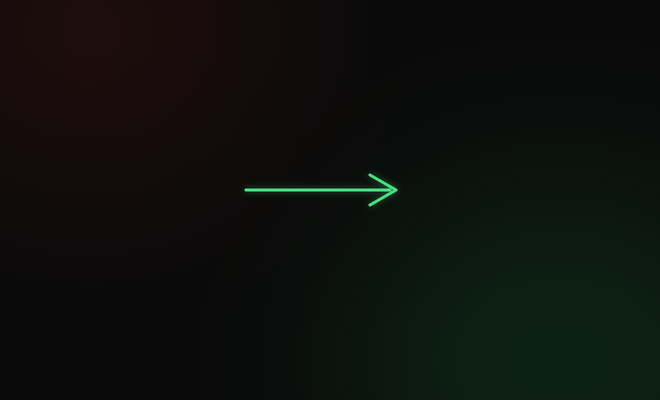
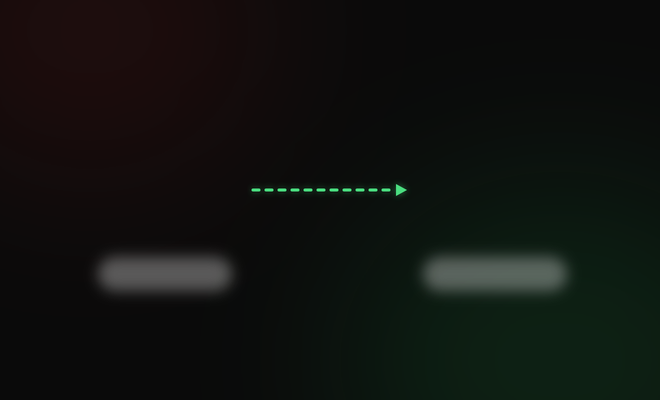
feat(dmg): headless installer styling with dmgbuild
Tauri styles its DMG by scripting Finder over AppleScript, which the headless CI runner skips, so the published installer opened unstyled. dmgbuild writes the .DS_Store itself (background, icon positions, hidden helper files), so the styling applies without Finder.

Adds tauri/dmg/dmgbuild-settings.py and refines the background: the aurora theme, a dashed connector arrow in the graph's dependency green with a small filled triangle head, and soft pads under the icon labels (macOS forces black label text over a custom DMG background). Wiring this into the release workflow is a follow-up.

Changed region(s): [[0.6364, 0.63, 0.8788, 0.75], [0.1212, 0.63, 0.3636, 0.75], [0.3636, 0.42, 0.6364, 0.51]]

diff --git a/tauri/dmg/background.html b/tauri/dmg/background.html
@@ -50,37 +50,53 @@
         bottom: -140px;
         background: rgba(34, 197, 94, 0.12);
       }
+      /* macOS forces the icon-label text to black over a custom DMG background,
+         so a soft light pad sits under each label (centred on the icons at x:165
+         and x:495, just below them) to keep the black text legible. */
+      .labelpad {
+        position: absolute;
+        top: 257px;
+        height: 34px;
+        border-radius: 17px;
+        background: rgba(255, 255, 255, 0.32);
+        filter: blur(7px);
+      }
+      .labelpad.app {
+        left: 98px;
+        width: 134px;
+      }
+      .labelpad.apps {
+        left: 423px;
+        width: 144px;
+      }
       /* Connector arrow, centred in the gap between the app icon (x:165) and the
          Applications folder (x:495), vertically aligned with their icons. */
       .arrow {
         position: absolute;
-        left: 240px;
+        left: 247px;
         top: 166px;
       }
     </style>
   </head>
   <body>
     <div class="aurora"><span></span><span></span></div>
+    <div class="labelpad app"></div>
+    <div class="labelpad apps"></div>
     <svg class="arrow" width="180" height="48" viewBox="0 0 180 48" fill="none">
       <defs>
-        <filter id="glow" x="-50%" y="-50%" width="200%" height="200%">
+        <filter id="glow" x="-60%" y="-60%" width="220%" height="220%">
           <feGaussianBlur stdDeviation="3.5" />
         </filter>
       </defs>
-      <g
-        stroke="#4ade80"
-        stroke-width="3"
-        stroke-linecap="round"
-        stroke-linejoin="round"
-        filter="url(#glow)"
-        opacity="0.45"
-      >
-        <line x1="6" y1="24" x2="150" y2="24" />
-        <polyline points="130,9 156,24 130,39" />
+      <!-- Dashed shaft mimicking the graph edges, with a small filled triangle
+           head set off to its right. -->
+      <g filter="url(#glow)" opacity="0.45">
+        <line x1="6" y1="24" x2="142" y2="24" stroke="#4ade80" stroke-width="3" stroke-linecap="round" stroke-dasharray="6 7" />
+        <polygon points="149,18 149,30 160,24" fill="#4ade80" />
       </g>
-      <g stroke="#4ade80" stroke-width="3" stroke-linecap="round" stroke-linejoin="round">
-        <line x1="6" y1="24" x2="150" y2="24" />
-        <polyline points="130,9 156,24 130,39" />
+      <g>
+        <line x1="6" y1="24" x2="142" y2="24" stroke="#4ade80" stroke-width="3" stroke-linecap="round" stroke-dasharray="6 7" />
+        <polygon points="149,18 149,30 160,24" fill="#4ade80" />
       </g>
     </svg>
   </body>

diff --git a/tauri/dmg/dmgbuild-settings.py b/tauri/dmg/dmgbuild-settings.py
@@ -1,0 +1,37 @@
+# dmgbuild settings for the macOS .dmg installer window.
+#
+# Tauri styles its DMG by scripting Finder over AppleScript, which is skipped on
+# headless CI runners (the published DMG then opens unstyled). dmgbuild writes
+# the .DS_Store itself, so the background, icon positions, and hidden helper
+# files apply the same way locally and in CI.
+#
+# Build the app first, then run from the repo root:
+#   DMG_APP=path/to/Cotect.app \
+#     dmgbuild -s tauri/dmg/dmgbuild-settings.py Cotect out.dmg
+import os
+
+application = os.environ.get(
+    "DMG_APP",
+    "tauri/target/universal-apple-darwin/release/bundle/macos/Cotect.app",
+)
+
+format = "UDZO"
+files = [application]
+symlinks = {"Applications": "/Applications"}
+
+# Layout matches tauri/dmg/background.html: app on the left, Applications on the
+# right, the arrow in the gap. Coordinates are icon centres in window points.
+icon_locations = {
+    os.path.basename(application): (165, 190),
+    "Applications": (495, 190),
+}
+
+# Paths are relative to the repo root (the CWD when this runs).
+background = "tauri/dmg/background.png"
+icon = "tauri/icons/icon.icns"
+
+# ((window x, y on screen), (content width, height)) — size matches background.png.
+window_rect = ((200, 120), (660, 400))
+default_view = "icon-view"
+icon_size = 128
+text_size = 13
